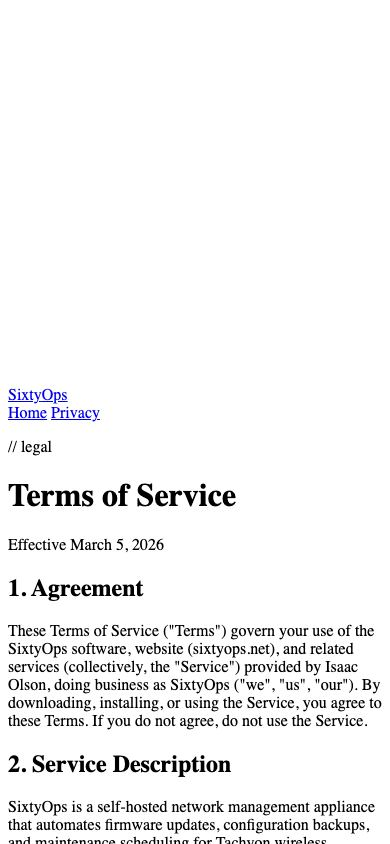
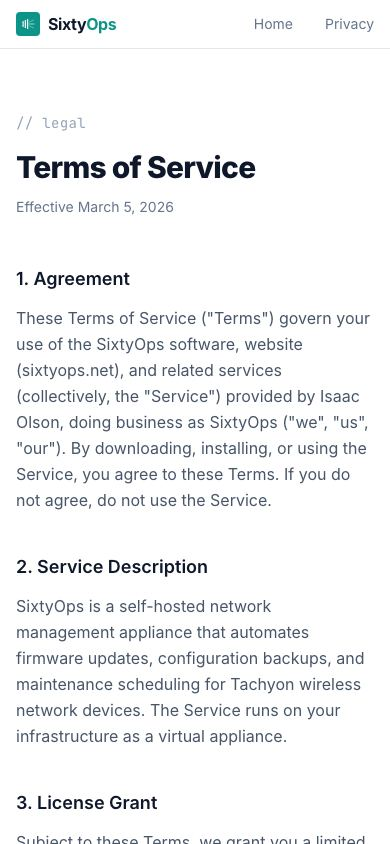
docs: complete styled website assessment and correct code reference

diff --git a/docs/design/ui-review-2026-10-02.md b/docs/design/ui-review-2026-10-02.md
@@ -1,10 +1,10 @@
 # UI review: shipped Manager surfaces, 2026-10-02
 
-**Key points:** Four confirmed UI corrections are queued. The primary fleet task and safety controls already have delivery issues. App captures cover both requested sizes. Website captures show the real offline rendering; their external runtime was blocked, so they do not prove the deployed website layout.
+**Key points:** Seven confirmed UI corrections are queued. The primary fleet task and safety controls already have delivery issues. App and styled website captures cover both requested sizes. Website scripts and fonts came from a narrow public static cache. These local renderings do not prove deployed-site health.
 
 ## Findings, ranked by operator impact
 
-**Key points:** Fix the existing safety sequence first. The four independent UI corrections preserve behavior.
+**Key points:** Fix the existing safety sequence first. The seven independent corrections preserve behavior and align copy with shipped code.
 
 **Detail:** This review assessed [main 8a96bda](https://github.com/sixtyops/manager/commit/8a96bdae166b14325d21eb8b7449e3951f180f4a) for [issue 403](https://github.com/sixtyops/manager/issues/403). Severity describes operator impact, not merge readiness.
 
@@ -15,12 +15,15 @@
 | App Settings | Opening leaves focus on the dropdown item. Tab reaches deviceIps behind the overlay. Escape does not close it. Dialog semantics are absent. | Medium | [455](https://github.com/sixtyops/manager/issues/455): scoped focus entry, containment, Escape, focus return and named close control. |
 | App Settings, mobile | About spans x 382.94 to 448.92 in a 390 px viewport. The tab strip uses visible overflow, outside the panel. | Medium | [456](https://github.com/sixtyops/manager/issues/456): keep all five tabs reachable with existing tokens. |
 | Login, setup and filled primary controls | The Add APs & Switches button has 13 px normal white text on rgb(13,148,136). Computed contrast is 3.7443:1, below 4.5:1 for normal text. The same accent family appears on standalone forms. | Medium | [457](https://github.com/sixtyops/manager/issues/457): check and correct filled-button colors across these forms. |
-| About, What’s New | It says the selected channel is current before any successful check. loadAboutInfo treats update_available=false as proof, ignoring last_check and last_check_error. | Medium | [458](https://github.com/sixtyops/manager/issues/458): distinguish unchecked, failed, current and newer-release states with synthetic responses. |
+| About, What’s New | It says the selected channel is current before any successful check. loadAboutPanel treats update_available=false as proof, ignoring last_check and last_check_error. | Medium | [458](https://github.com/sixtyops/manager/issues/458): distinguish unchecked, failed, current and newer-release states with synthetic responses. |
+| Website FAQ and Privacy | They say telemetry is on by default. Current code requires an administrator opt-in and defaults false. | Medium | [461](https://github.com/sixtyops/manager/issues/461): correct only the telemetry copy; preserve the kill switch and separate removal roadmap. |
+| Website mobile Menu and FAQ | Enter/Space toggle panels, but aria-expanded and aria-controls are absent. Menu Escape does not close it. | Medium | [460](https://github.com/sixtyops/manager/issues/460): expose disclosure state and panel relationships. Preserve native keyboard navigation. |
+| Website links and 404 action | Install Now is 14px weight500 teal on white. Privacy/terms links and the 16px Back to Home button use the same color pair. Contrast is 3.7443:1. | Medium | [462](https://github.com/sixtyops/manager/issues/462): correct site controls separately from the app scope in457. |
 | Dense ledger and history | Some controls measure below 24 px, and mobile tables need horizontal navigation. Measurements alone do not establish a target-size failure; spacing exceptions and scrolling need a separate check. | Low, observation | Preserve density. Verify actual hit regions and spacing before proposing a change. |
 
 ## Method and limits
 
-**Key points:** All data is synthetic. No provider, device, shared host, release or update action ran. This is an assessment artifact, not WCAG certification or a test of operational recovery.
+**Key points:** All data is synthetic. Only referenced public static assets were read. No provider login, device, shared host, release or update action ran. This is an assessment artifact, not WCAG certification or a test of operational recovery.
 
 **Detail:** Read CLAUDE.md, AGENTS.md, one-right-way.md, UI_STYLE_GUIDE.md, ui-principles.md, frontend-design and the installed ai-copywriter instructions. The repository design system and factual STE take precedence. No separate accessibility or browser skill was available. Existing Playwright used cached Chromium 1223 through an explicit executable path; no browser or dependency was installed.
 
@@ -30,15 +33,19 @@ Captures used 1440x 900 and 390x 844 with reduced motion. Keyboard probes used t
 
 `/setup-wizard` redirects to `/`; it is not a separate wizard page. Add APs & Switches is an inline card, not a dialog. HTTPS and SFTP setup still render. Settings include all requested tabs and subtabs. RADIUS remains shipped; its future removal is separate work. No SSO, device-login, notification Test, certificate, backup Run Now, import, firmware, compliance or push action was submitted.
 
-The public website depends on external Tailwind, Alpine and Google Fonts. Those requests were blocked. The included home/privacy/terms/404 images are genuine offline renderings, not simulated styled pages. Website visual hierarchy, responsive layout, contrast and Alpine keyboard behavior remain unverified. Repeat that dependent portion only with an verified local copy of those exact assets. Do not infer a deployed-site defect from these offline images.
+The website continuation inspected every referenced external script and stylesheet URL before download. Tailwind resolved to 3.4.17; Alpine resolved to 3.17.4. Exact font URLs came from the referenced Google CSS. Twelve declared assets were cached privately; eleven were served during the final browser run. Playwright fulfilled those URLs from the cache. Every other external request and every non-GET request stayed blocked. The local website server exposed only tracked static pages and assets, with no app API.
 
-Duplicate checks covered open issues, relevant closed issues and every file in all open PRs 271,266 and 153. PR 153 WebSocket tests are superseded by 454; its workflows remain parked. PR 271 touches monitor.html but its auth correction and actual push denial remain separate. The four follow-ups are sized S/M, safety-path and agent:queued. None is automatically ready. Review exact-line overlap and let the lead select one. Preserve 266’s bench gate and 409’s workflow boundary.
+All four pages rendered with loaded fonts and scrollWidth equal to viewport width at 1440px and390px. The final run had zero page errors and zero unexpected external requests. It scrolled the actual reveal sections and waited for their visible state before full-page capture. Native keyboard probes used actual Alpine controls: Menu Enter opened, Tab reached Features, Space closed, and a local fragment link closed it. Escape left it open. The menu had visible keyboard focus. FAQ Enter opened and Space closed in both sizes. Both controls omitted expanded-state metadata. Each screenshot has a hash and dimensions; full-page height differs from the viewport height by design.
 
-Validation: full offline pytest 1,789 passed, 33 skipped, one existing Starlette/httpx warning. Skipped hardware tests provide no bench proof. Documentation links, screenshot dimensions, file hashes and diff whitespace were checked. No UI or code test was added to this documentation-only PR.
+The [static asset manifest](ui-review-2026-10-02/website-static-assets.json) records exact URLs, resolved versions and hashes. The [browser evidence summary](ui-review-2026-10-02/website-evidence.json) records final widths, fonts and keyboard outcomes. The CDNs use mutable URLs; the assessment applies to these captured hashes. No outbound website link, installer, telemetry endpoint or provider was opened. Legal policy content was inspected only for the concrete telemetry mismatch, not legal compliance. Reduced motion was emulated; this review does not certify every animation or WCAG requirement.
+
+Duplicate checks covered open issues, relevant closed issues and every file in all open PRs 271,266 and 153. PR 153 WebSocket tests are superseded by 454; its workflows remain parked. PR 271 touches monitor.html but its auth correction and actual push denial remain separate. The seven follow-ups are sized S/M, safety-path and agent:queued. None is automatically ready. Review exact-line overlap and let the lead select one. Preserve 266’s bench gate and 409’s workflow boundary.
+
+Validation: corrective full offline pytest 1,789 passed, 33 skipped, one existing Starlette/httpx warning,77.40s. Skipped hardware tests provide no bench proof. Documentation links, screenshot dimensions, file hashes and diff whitespace were checked. No UI or code test was added to this documentation-only PR.
 
 ## Screenshot index
 
-**Key points:** Each row links to both real viewport captures. Website rows retain the external-runtime limit above.
+**Key points:** Each row links to real captures. The styled website rows also link full-page and open-control states.
 
 **Detail:** These are viewport images, not full-page substitutes. Some forms and tables continue below the visible area; local scrolling was available during review. The image manifest records exact dimensions and SHA256 hashes.
 
@@ -69,7 +76,11 @@ Validation: full offline pytest 1,789 passed, 33 skipped, one existing Starlette
 | Settings: radius, server | [Desktop](ui-review-2026-10-02/settings-radius-server-desktop.jpg) | [Mobile](ui-review-2026-10-02/settings-radius-server-mobile.jpg) |
 | Settings: radius, clients | [Desktop](ui-review-2026-10-02/settings-radius-clients-desktop.jpg) | [Mobile](ui-review-2026-10-02/settings-radius-clients-mobile.jpg) |
 | Settings: About | [Desktop](ui-review-2026-10-02/settings-about-desktop.jpg) | [Mobile](ui-review-2026-10-02/settings-about-mobile.jpg) |
-| Website index: external runtime blocked | [Desktop](ui-review-2026-10-02/website-index-desktop.jpg) | [Mobile](ui-review-2026-10-02/website-index-mobile.jpg) |
-| Website privacy: external runtime blocked | [Desktop](ui-review-2026-10-02/website-privacy-desktop.jpg) | [Mobile](ui-review-2026-10-02/website-privacy-mobile.jpg) |
-| Website terms: external runtime blocked | [Desktop](ui-review-2026-10-02/website-terms-desktop.jpg) | [Mobile](ui-review-2026-10-02/website-terms-mobile.jpg) |
-| Website 404: external runtime blocked | [Desktop](ui-review-2026-10-02/website-404-desktop.jpg) | [Mobile](ui-review-2026-10-02/website-404-mobile.jpg) |
+| Styled website home | [Desktop](ui-review-2026-10-02/website-index-desktop.jpg) · [Full page](ui-review-2026-10-02/website-index-full-desktop.jpg) | [Mobile](ui-review-2026-10-02/website-index-mobile.jpg) · [Full page](ui-review-2026-10-02/website-index-full-mobile.jpg) |
+| Styled website privacy | [Desktop](ui-review-2026-10-02/website-privacy-desktop.jpg) · [Full page](ui-review-2026-10-02/website-privacy-full-desktop.jpg) | [Mobile](ui-review-2026-10-02/website-privacy-mobile.jpg) · [Full page](ui-review-2026-10-02/website-privacy-full-mobile.jpg) |
+| Styled website terms | [Desktop](ui-review-2026-10-02/website-terms-desktop.jpg) · [Full page](ui-review-2026-10-02/website-terms-full-desktop.jpg) | [Mobile](ui-review-2026-10-02/website-terms-mobile.jpg) · [Full page](ui-review-2026-10-02/website-terms-full-mobile.jpg) |
+| Styled website 404 | [Desktop](ui-review-2026-10-02/website-404-desktop.jpg) · [Full page](ui-review-2026-10-02/website-404-full-desktop.jpg) | [Mobile](ui-review-2026-10-02/website-404-mobile.jpg) · [Full page](ui-review-2026-10-02/website-404-full-mobile.jpg) |
+| Website FAQ open | [Desktop](ui-review-2026-10-02/website-faq-open-desktop.jpg) | [Mobile](ui-review-2026-10-02/website-faq-open-mobile.jpg) |
+| Website install section | [Desktop](ui-review-2026-10-02/website-install-desktop.jpg) | [Mobile](ui-review-2026-10-02/website-install-mobile.jpg) |
+| Website footer | [Desktop](ui-review-2026-10-02/website-footer-desktop.jpg) | [Mobile](ui-review-2026-10-02/website-footer-mobile.jpg) |
+| Website mobile Menu open | Not shown at desktop width | [Mobile](ui-review-2026-10-02/website-menu-open-mobile.jpg) |
